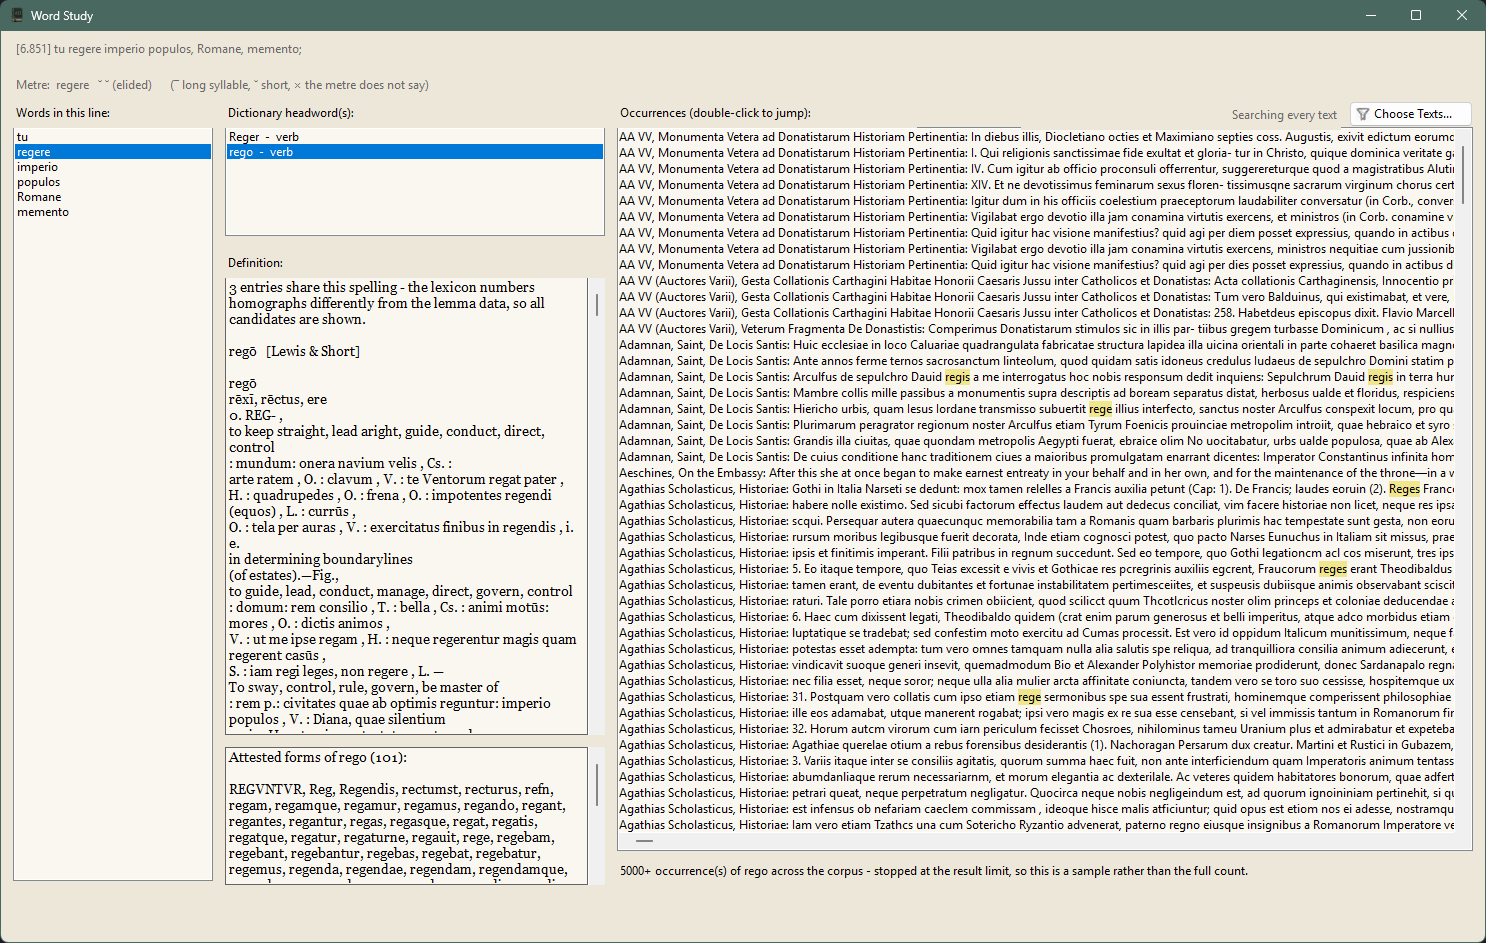
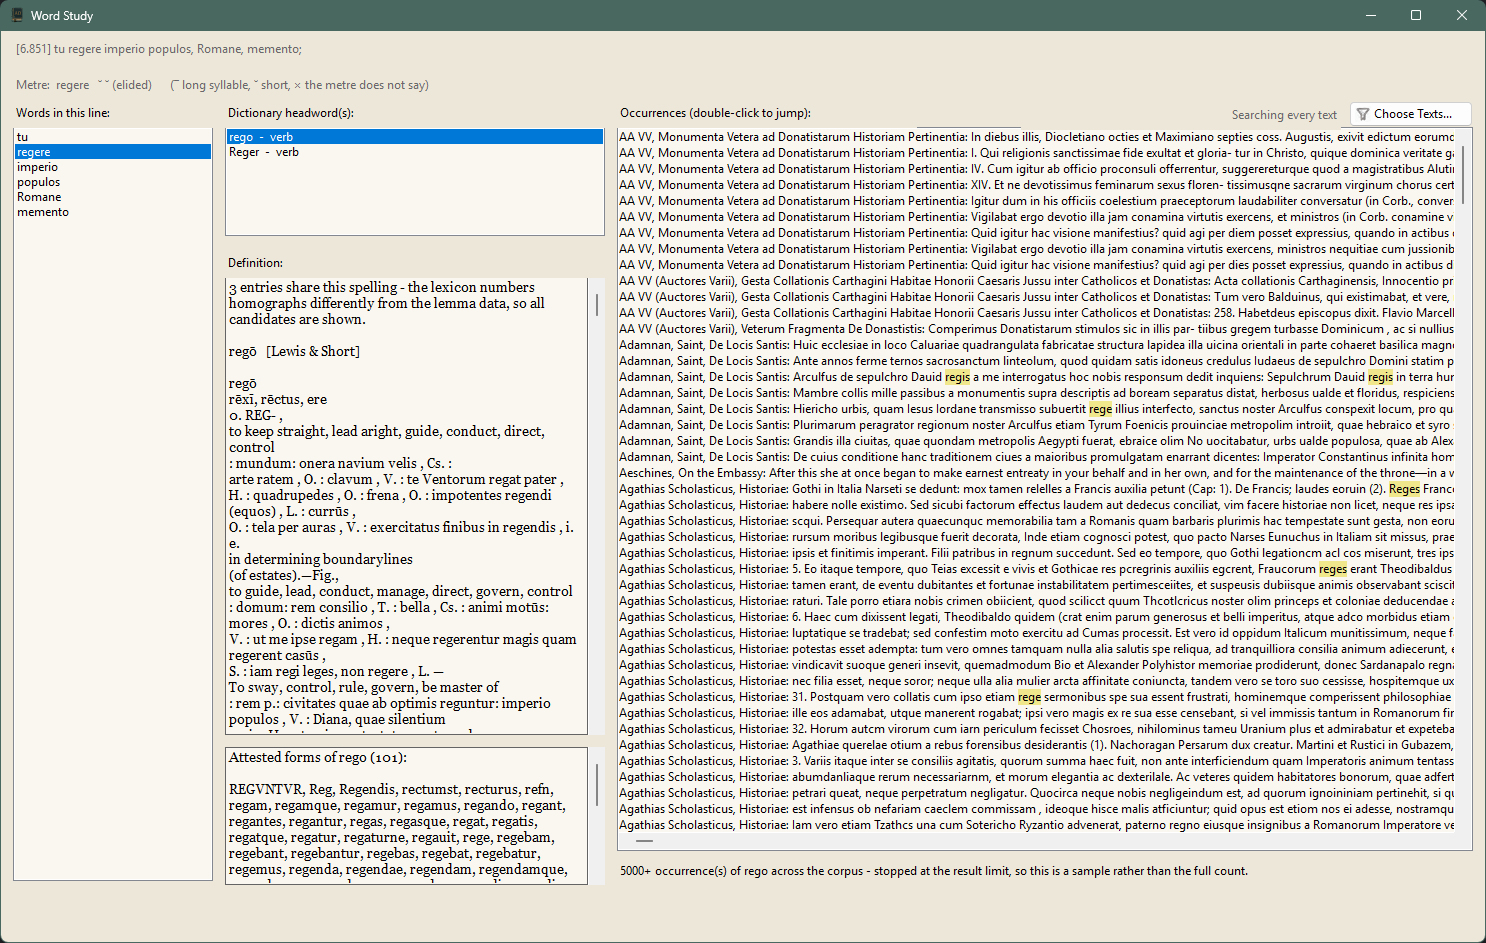
Offer the headword the dictionary can actually answer for, first
Word Study selects the first headword automatically, so whichever one leads is
the one a reader is shown. Alphabetical order put the wrong one there almost
every time.

The Latin lemma data carries capitalised headwords that nothing in Lewis and
Short answers to - only 43,507 of its 139,190 headwords have an entry behind
them at all - and a capital sorts before a lowercase letter. So clicking
"regere" led with Reger and displayed "no dictionary entry found", with rego and
its full Lewis and Short entry sitting unnoticed on the line below. Likewise
amare with Amar over amo, and ferre with Ferres over fero.

That is the first click on the feature this application is most for, and it
answered with an apology while holding the answer.

Headwords the dictionary can answer for now sort to the top, alphabetical order
kept within each group. Verified against the full library: regere leads with
rego, amare with amo, ferre with fero, and every Greek probe was already
correct. One indexed query over a handful of candidates, 0.1 to 0.4ms.

Normalising through WordNormalizer rather than in SQL is deliberate - it is the
same call the definition lookup makes, trailing digits trimmed and v/j folded to
u/i for Latin, so the two cannot drift apart and start disagreeing about what
has an entry. A test covers exactly that, with a headword that only matches
after the fold.

The message shown when there genuinely is no entry was also wrong. It offered
[…]

Changed region(s): [[0.1548, 0.123, 0.4024, 0.1845]]

diff --git a/tests/ClassicaCodex.Data.Tests/HeadwordOrderTests.cs b/tests/ClassicaCodex.Data.Tests/HeadwordOrderTests.cs
@@ -1,0 +1,161 @@
+using ClassicaCodex.Data.Repositories;
+using Xunit;
+
+namespace ClassicaCodex.Data.Tests;
+
+/// <summary>
+/// Which headword a reader is shown when they click a word.
+///
+/// Word Study selects the first headword automatically, so whichever leads is
+/// the one they actually see. Alphabetical order put the wrong one there almost
+/// every time: the Latin lemma data carries capitalised headwords that nothing
+/// in Lewis and Short answers to - only 43,507 of its 139,190 headwords have an
+/// entry behind them at all - and a capital sorts before a lowercase letter.
+///
+/// So clicking "regere" led with Reger and showed "no dictionary entry found",
+/// with rego and its Lewis and Short entry sitting unnoticed on the next line.
+/// Likewise amare with Amar over amo, and ferre with Ferres over fero. On the
+/// feature this application is most for, at the first click.
+/// </summary>
+[Collection("Database")]
+public class HeadwordOrderTests
+{
+    /// <summary>
+    /// Two lemma rows for one form, only one of which the dictionary answers
+    /// for - which is the shape the real data keeps producing.
+    /// </summary>
+    private static async Task SeedAsync(TempDatabase db)
+    {
+        await db.ExecuteAsync(@"
+            INSERT INTO Lemmas (Language, Form, NormalizedForm, Headword, PartOfSpeech)
+            VALUES ('lat', 'regere', 'regere', 'Reger', 'v'),
+                   ('lat', 'regere', 'regere', 'rego',  'v');
+
+            INSERT INTO Definitions (Language, Headword, NormalizedHeadword, Entry, Source)
+            VALUES ('lat', 'rego', 'rego', 'to keep straight, guide, rule', 'Lewis & Short');");
+    }
+
+    [Fact]
+    public async Task TheHeadwordTheDictionaryAnswersForComesFirst()
+    {
+        using var db = await TempDatabase.CreateAsync();
+        await SeedAsync(db);
+
+        var heads = await new LemmaRepository().GetHeadwordsForFormAsync("regere", "lat");
+
+        Assert.Equal("rego", heads[0].Headword);
+        Assert.Equal(new[] { "rego", "Reger" }, heads.Select(h => h.Headword));
+    }
+
+    /// <summary>
+    /// The whole point: the reader is shown a definition rather than an
+    /// apology, without having to notice a second line and click it.
+    /// </summary>
+    [Fact]
+    public async Task TheFirstHeadwordResolvesToAnEntry()
+    {
+        using var db = await TempDatabase.CreateAsync();
+        await SeedAsync(db);
+
+        var heads = await new LemmaRepository().GetHeadwordsForFormAsync("regere", "lat");
+        var entries = await new DefinitionRepository().GetByHeadwordAsync(heads[0].Headword, "lat");
+
+        Assert.NotEmpty(entries);
+    }
+
+    /// <summary>
+    /// Latin normalising folds v to u and j to i, and trailing digits come off
+    /// a numbered headword. The promotion has to use the same rule the
+    /// definition lookup does, or it will promote the wrong one - which is why
+    /// it calls WordNormalizer rather than reimplementing the fold in SQL.
+    /// </summary>
+    [Fact]
+    public async Task PromotionUsesTheSameNormalisingAsTheLookup()
+    {
+        using var db = await TempDatabase.CreateAsync();
+        await db.ExecuteAsync(@"
+            INSERT INTO Lemmas (Language, Form, NormalizedForm, Headword, PartOfSpeech)
+            VALUES ('lat', 'iuuenis', 'iuuenis', 'Aardvark', 'n'),
+                   ('lat', 'iuuenis', 'iuuenis', 'juvenis2', 'n');
+
+            INSERT INTO Definitions (Language, Headword, NormalizedHeadword, Entry, Source)
+            VALUES ('lat', 'juvenis', 'iuuenis', 'young', 'Lewis & Short');");
+
+        var heads = await new LemmaRepository().GetHeadwordsForFormAsync("iuuenis", "lat");
+
+        Assert.Equal("juvenis2", heads[0].Headword);
+    }
+
+    /// <summary>
+    /// Alphabetical order still decides between headwords the dictionary
+    /// answers for equally - the promotion reorders the groups, not the
+    /// contents of either.
+    /// </summary>
+    [Fact]
+    public async Task OrderWithinEachGroupIsUnchanged()
+    {
+        using var db = await TempDatabase.CreateAsync();
+        await db.ExecuteAsync(@"
+            INSERT INTO Lemmas (Language, Form, NormalizedForm, Headword, PartOfSpeech)
+            VALUES ('lat', 'x', 'x', 'aaa', 'n'), ('lat', 'x', 'x', 'bbb', 'n'),
+                   ('lat', 'x', 'x', 'yyy', 'n'), ('lat', 'x', 'x', 'zzz', 'n');
+
+            INSERT INTO Definitions (Language, Headword, NormalizedHeadword, Entry, Source)
+            VALUES ('lat', 'bbb', 'bbb', 'b', 'L&S'), ('lat', 'zzz', 'zzz', 'z', 'L&S');");
+
+        var heads = await new LemmaRepository().GetHeadwordsForFormAsync("x", "lat");
+
+        Assert.Equal(new[] { "bbb", "zzz", "aaa", "yyy" }, heads.Select(h => h.Headword));
+    }
+
+    /// <summary>
+    /// When every candidate is answerable, or none is, there is nothing to
+    /// promote and the alphabetical order stands.
+    /// </summary>
+    [Fact]
+    public async Task NothingMovesWhenThereIsNothingToPromote()
+    {
+        using var db = await TempDatabase.CreateAsync();
+        await db.ExecuteAsync(@"
+            INSERT INTO Lemmas (Language, Form, NormalizedForm, Headword, PartOfSpeech)
+            VALUES ('lat', 'y', 'y', 'aaa', 'n'), ('lat', 'y', 'y', 'bbb', 'n');");
+
+        var heads = await new LemmaRepository().GetHeadwordsForFormAsync("y", "lat");
+
+        Assert.Equal(new[] { "aaa", "bbb" }, heads.Select(h => h.Headword));
+    }
+
+    /// <summary>
+    /// A form with one candidate takes the cheap path and still comes back.
+    /// </summary>
+    [Fact]
+    public async Task ASingleHeadwordIsReturnedUntouched()
+    {
+        using var db = await TempDatabase.CreateAsync();
+        await db.ExecuteAsync(@"
+            INSERT INTO Lemmas (Language, Form, NormalizedForm, Headword, PartOfSpeech)
+            VALUES ('lat', 'uenit', 'uenit', 'uenio', 'v');");
+
+        var heads = await new LemmaRepository().GetHeadwordsForFormAsync("uenit", "lat");
+
+        Assert.Equal("uenio", Assert.Single(heads).Headword);
+    }
+
+    /// <summary>
+    /// A language with no dictionary loaded at all must still list its
+    /// headwords - Menota's Old Norse has lemma data and no lexicon.
+    /// </summary>
+    [Fact]
+    public async Task HeadwordsStillListWhenNoDictionaryIsLoaded()
+    {
+        using var db = await TempDatabase.CreateAsync();
+        await db.ExecuteAsync(@"
+            INSERT INTO Lemmas (Language, Form, NormalizedForm, Headword, PartOfSpeech)
+            VALUES ('non', 'konungr', 'konungr', 'konungr', 'n'),
+                   ('non', 'konungr', 'konungr', 'Konung',  'n');");
+
+        var heads = await new LemmaRepository().GetHeadwordsForFormAsync("konungr", "non");
+
+        Assert.Equal(2, heads.Count);
+    }
+}

diff --git a/src/ClassicaCodex.Data/Repositories/LemmaRepository.cs b/src/ClassicaCodex.Data/Repositories/LemmaRepository.cs
@@ -186,7 +186,81 @@ public class LemmaRepository
             if (results.Count > 0) break;
         }
 
+        await PutAnswerableHeadwordsFirstAsync(conn, results, effectiveLanguage, cancellationToken);
         return results;
+    }
+
+    /// <summary>
+    /// Sorts headwords the dictionary can actually answer for to the top,
+    /// keeping the alphabetical order within each group.
+    ///
+    /// Word Study selects the first headword automatically, so whichever one
+    /// leads is the one a reader is shown. Alphabetical order put the wrong
+    /// one there almost every time: the Latin lemma data carries capitalised
+    /// headwords that nothing in Lewis and Short answers to - only 43,507 of
+    /// its 139,190 headwords have a dictionary entry behind them at all - and
+    /// a capital sorts before a lowercase letter. So "regere" led with Reger
+    /// over rego, "amare" with Amar over amo, "ferre" with Ferres over fero.
+    ///
+    /// The reader clicked a word and was shown "no dictionary entry found",
+    /// with the real entry sitting unnoticed one line below. On the feature
+    /// this application is most for.
+    ///
+    /// Normalising through WordNormalizer rather than in SQL is deliberate:
+    /// it is the same call the definition lookup itself makes - trailing
+    /// digits trimmed, and v/j folded to u/i for Latin - so the two cannot
+    /// drift apart and quietly start disagreeing about what has an entry.
+    /// </summary>
+    private static async Task PutAnswerableHeadwordsFirstAsync(
+        SqliteConnection conn,
+        List<(string Headword, string? PartOfSpeech)> results,
+        string language,
+        CancellationToken cancellationToken)
+    {
+        // One headword cannot be in the wrong order, and no headwords cannot
+        // be either. Both are the common case.
+        if (results.Count < 2) return;
+
+        var normalizedByHeadword = new Dictionary<string, string>(StringComparer.Ordinal);
+        foreach (var (headword, _) in results)
+        {
+            if (!normalizedByHeadword.ContainsKey(headword))
+                normalizedByHeadword[headword] = WordNormalizer.NormalizeHeadword(headword, language);
+        }
+
+        var answerable = new HashSet<string>(StringComparer.Ordinal);
+        var distinct = normalizedByHeadword.Values.Where(v => v.Length > 0).Distinct().ToList();
+        if (distinct.Count == 0) return;
+
+        await using (var cmd = conn.CreateCommand())
+        {
+            var names = new List<string>(distinct.Count);
+            for (var i = 0; i < distinct.Count; i++)
+            {
+                names.Add($"@h{i}");
+                cmd.Parameters.AddWithValue($"@h{i}", distinct[i]);
+            }
+
+            cmd.CommandText =
+                "SELECT DISTINCT NormalizedHeadword FROM Definitions " +
+                $"WHERE Language = @Language AND NormalizedHeadword IN ({string.Join(",", names)});";
+            cmd.Parameters.AddWithValue("@Language", language);
+            cmd.CommandTimeout = 30;
+
+            await using var reader = await cmd.ExecuteReaderAsync(cancellationToken);
+            while (await reader.ReadAsync(cancellationToken)) answerable.Add(reader.GetString(0));
+        }
+
+        // Nothing to promote, and nothing to demote - leave the order alone
+        // rather than reshuffling for no reason.
+        if (answerable.Count == 0 || answerable.Count == distinct.Count) return;
+
+        var ordered = results
+            .OrderByDescending(r => answerable.Contains(normalizedByHeadword[r.Headword]))
+            .ToList();
+
+        results.Clear();
+        results.AddRange(ordered);
     }
 
     /// <summary>

diff --git a/src/ClassicaCodex.UI/WordStudyForm.cs b/src/ClassicaCodex.UI/WordStudyForm.cs
@@ -602,10 +602,28 @@ public class WordStudyForm : ScaledForm
 
             if (entries.Count == 0)
             {
-                _definitionBox.Text =
-                    "(no dictionary entry found)\r\n\r\n" +
-                    "Either no dictionary is loaded for this language, or this headword isn't in it. " +
-                    "Use \"Load Lemmas...\" and switch Data type to \"Dictionary (lexicon)\" to load one.";
+                // Which of the two it is, rather than both at once. The old
+                // wording offered "no dictionary is loaded, or this headword
+                // isn't in it" and then told the reader to go and load one -
+                // advice that is simply wrong when the dictionary is already
+                // there, and sends someone off to fix a problem they do not
+                // have. Only 43,507 of the Latin lemma data's 139,190 headwords
+                // have anything in Lewis and Short behind them, so the second
+                // case is much the commoner one by far, and it was the one
+                // getting the first case's instructions.
+                var loaded = (await _definitionRepo.CountByLanguageAsync())
+                    .Any(l => string.Equals(l.Language, language, StringComparison.OrdinalIgnoreCase)
+                              && l.Count > 0);
+
+                _definitionBox.Text = loaded
+                    ? "(no dictionary entry for this headword)\r\n\r\n" +
+                      "The dictionary is loaded, but has nothing under this spelling. Lemma data " +
+                      "and lexicons number and capitalise headwords differently, so where a form " +
+                      "has more than one candidate the others are worth trying - the list above " +
+                      "puts the ones the dictionary can answer for first."
+                    : "(no dictionary loaded for this language)\r\n\r\n" +
+                      "Use \"Load Lemmas...\" and switch Data type to \"Dictionary (lexicon)\" to " +
+                      "load one - LSJ for Greek, Lewis & Short for Latin.";
                 return;
             }
 

diff --git a/README.md b/README.md
@@ -43,7 +43,7 @@ Where a form is genuinely ambiguous it says so and shows all the candidates,
 rather than picking one and being quietly wrong. For Latin verse it also scans
 the line and marks the syllables the metre settles.
 
-<img width="900" alt="Word Study on Aeneid 6.851: the word regere selected, headwords Reger and rego, the Lewis and Short entry for rego, 101 attested forms, and occurrences across the corpus" src="docs/images/word-study.png" />
+<img width="900" alt="Word Study on Aeneid 6.851: the word regere selected, rego offered first with its Lewis and Short entry already showing, 101 attested forms, and occurrences across the corpus" src="docs/images/word-study.png" />
 
 ## Know what vocabulary a work actually needs
 
